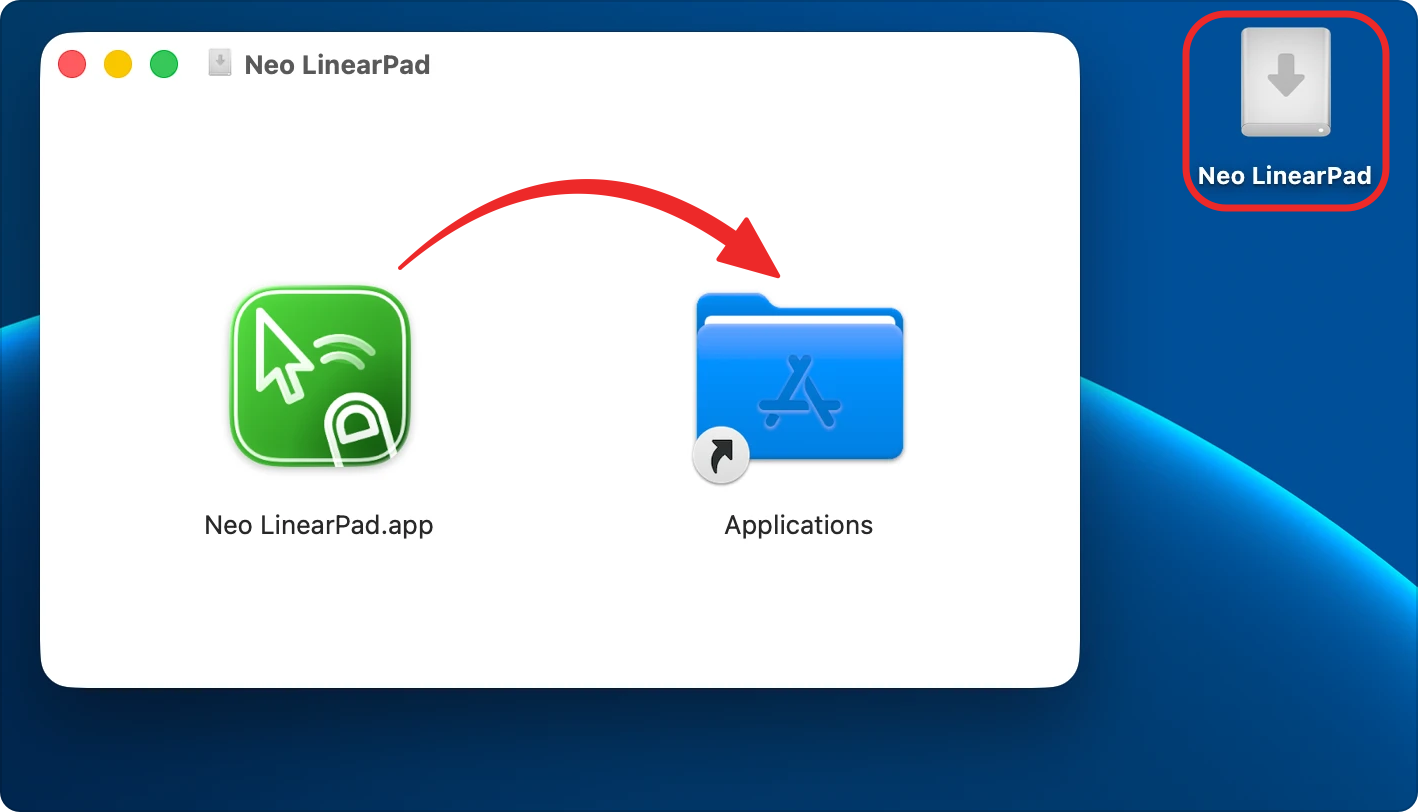
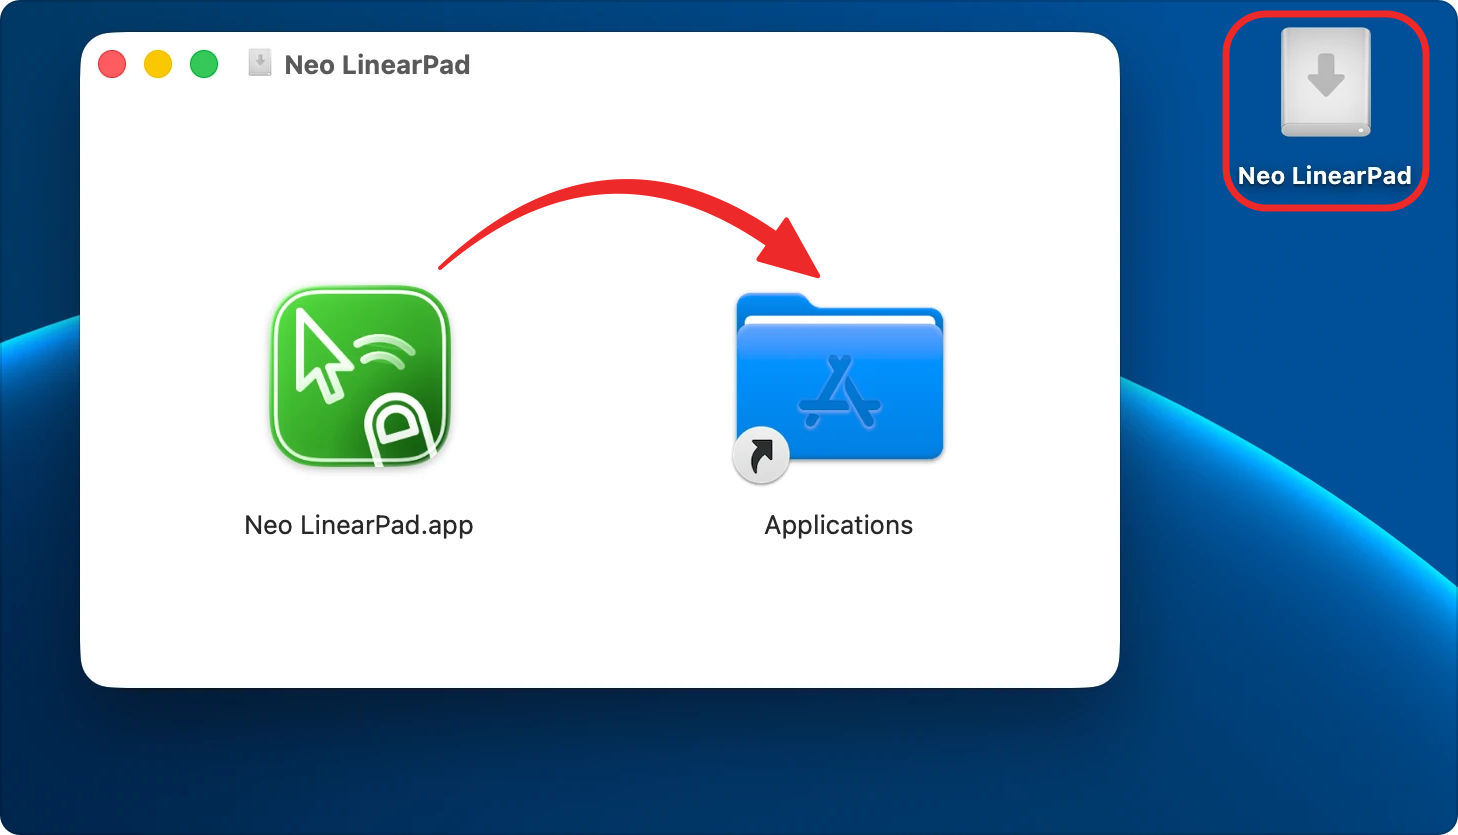
Install step 3: zoomed out, twice the space on the left

diff --git a/ja/index.html b/ja/index.html
@@ -53,7 +53,7 @@
               <img src="../assets/guide/install-2-safari.png?v=4" alt="Safari のダウンロード一覧" loading="lazy">
             </li>
             <li><span class="notranslate" translate="no">Neo LinearPad</span> を「アプリケーション」フォルダへドラッグします。
-              <img src="../assets/guide/install-3-drag.png?v=5" alt=".dmg を開き、アプリケーションへドラッグ" loading="lazy">
+              <img src="../assets/guide/install-3-drag.png?v=6" alt=".dmg を開き、アプリケーションへドラッグ" loading="lazy">
             </li>
             <li><span class="notranslate" translate="no">Neo LinearPad</span> を開きます。初回だけ「インターネットからダウンロードされたアプリです」と確認が出るので、「開く」を押してください。
               <img src="../assets/guide/install-4-open.png?v=2" alt="初回起動の確認で「開く」" loading="lazy">

diff --git a/en/index.html b/en/index.html
@@ -52,7 +52,7 @@
               <img src="../assets/guide/en/install-2-safari.png?v=3" alt="Downloads in Safari" loading="lazy">
             </li>
             <li>Drag <span class="notranslate" translate="no">Neo LinearPad</span> into the Applications folder.
-              <img src="../assets/guide/install-3-drag.png?v=5" alt="Dragging the app into Applications" loading="lazy">
+              <img src="../assets/guide/install-3-drag.png?v=6" alt="Dragging the app into Applications" loading="lazy">
             </li>
             <li>Open <span class="notranslate" translate="no">Neo LinearPad</span>. On first launch, macOS will ask you to confirm that you want to open an app downloaded from the internet. Click Open.
               <img src="../assets/guide/install-4-open.png?v=2" alt="Clicking Open on the first-launch prompt" loading="lazy">
